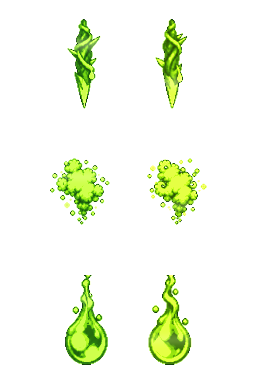
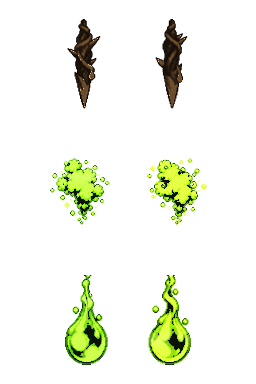
Verdant: brown root leaf shard and Bloom Queen shard, black-heart spore cloud and sap drop
Elite leaf shard (verdant_attack_shots cells 2,3) and the Bloom Queen's attack-1 shard
become dark brown bark with a near-black keyline; her spore cloud and sap drop stay
lime with a small near-black internal heart (two tone). Silhouettes, alpha and frames
unchanged; generated by Art/Attacks/Verdant~/black_shots.py from the master art.

diff --git a/Pause/Assets/Art/Attacks/Verdant~/black_shots.py b/Pause/Assets/Art/Attacks/Verdant~/black_shots.py
@@ -1,0 +1,52 @@
+"""Verdant hostile shots -> black (user, Oct 25): the leaf shard (verdant_attack_shots cells 2,3) and the Bloom Queen's three attack shots (Verdant_shots.png stays pale mint, user Oct 25) become dark brown root / bark / thorn art (near-black brown, tan bark ridges, a small ochre accent). Run on the ORIGINAL art (git history). Deterministic luminance-ramp remap, alpha and layout untouched.
+usage: blacken.py ROOT_ASSETS OUTDIR [variant]
+"""
+import sys, numpy as np
+from PIL import Image
+# brown root / bark ramp (t = luminance relative to the cell's 98th percentile): near-black brown -> bark -> tan -> a small dry-ochre accent
+STOPS=[(0.0,(12,8,5)),(.45,(28,19,11)),(.72,(52,36,21)),(.90,(84,59,34)),(1.0,(112,80,46))]
+KEY=(9,6,4)
+OCHRE=(222,182,116)   # a dry-ochre catch-light, only on the lit (upper-left) edge of the bright bark
+# (file, cell w, cell h, columns, cell indices to convert)
+JOBS=[('Art/Resources/Attacks/Verdant/verdant_attack_shots.png',128,128,8,[2,3]),   # the elites' leaf shard (both frames)
+      ('Art/Resources/Bosses/Verdant_attackshots.png',128,128,2,[0,1]),             # Bloom Queen attack 1 (lime shard): brown root
+      ('Art/Resources/Bosses/Verdant_attackshots.png',128,128,2,[2,3,4,5])]         # attack 2 (spore cloud), 3 (sap drop): stay green, get black internals (INNER)
+INNER=[('Art/Resources/Bosses/Verdant_attackshots.png',[2,3,4,5])]   # cells that keep their art and only gain a black heart
+INNER_SHARE=.18; INNER_KEY=(11,18,8)   # the darkest 18 % of the interior (eroded 2 px) becomes one near-black: two tone, the lime stays dominant
+def lum(rgb): return (.2126*rgb[...,0]+.7152*rgb[...,1]+.0722*rgb[...,2])/255
+def conv(cell, variant):
+    a=cell[...,3]; m=a>0
+    L=lum(cell[...,:3].astype(float)); ref=np.percentile(L[a>128],98) if (a>128).any() else 1
+    t=np.clip(L/max(ref,1e-3),0,1)
+    xs=[p for p,_ in STOPS]; cs=np.array([c for _,c in STOPS],float)
+    body=np.stack([np.interp(t,xs,cs[:,k]) for k in range(3)],-1)
+    # catch-light: bright bark pixels whose upper or left neighbour is empty or dark
+    Lp=np.pad(t,1); Ap=np.pad(a,1)
+    lit=(t>.9)&(a>128)&(((Ap[1:-1,:-2]<128)|(Lp[1:-1,:-2]<.45))|((Ap[:-2,1:-1]<128)|(Lp[:-2,1:-1]<.45)))
+    # a subtle near-black keyline: the shot's own outermost opaque pixels (alpha untouched), except where the catch-light sits
+    Ab=np.pad(a<128,1,constant_values=True)
+    edge=(a>=128)&(Ab[1:-1,:-2]|Ab[1:-1,2:]|Ab[:-2,1:-1]|Ab[2:,1:-1])
+    body[edge&~lit]=KEY
+    body[lit]=OCHRE
+    out=cell.copy(); out[...,:3]=np.where(m[...,None],body,np.array(STOPS[0][1],float)).round().astype('uint8'); return out
+def inner(cell):
+    a=cell[...,3]; m=a>=128
+    for _ in range(2):
+        p=np.pad(m,1); m=p[1:-1,1:-1]&p[:-2,1:-1]&p[2:,1:-1]&p[1:-1,:-2]&p[1:-1,2:]
+    out=cell.copy()
+    if m.sum()<20: return out
+    L=lum(cell[...,:3].astype(float)); th=np.sort(L[m])[int(m.sum()*INNER_SHARE)]
+    dark=m&(L<=th); out[dark,:3]=INNER_KEY; return out
+def run(root,outdir,variant="brown"):
+    import os
+    outs={}
+    for f,cw,ch,cols,idx in JOBS:
+        im=np.array(Image.open(root+f).convert('RGBA'))
+        out=outs.setdefault(f,im.copy())
+        for i in idx:
+            r,c=divmod(i,cols); sl=(slice(r*ch,(r+1)*ch),slice(c*cw,(c+1)*cw))
+            inn=any(f==jf and i in ids for jf,ids in INNER)
+            out[sl]=inner(im[sl]) if inn else conv(im[sl],variant)
+    for f,out in outs.items():
+        p=outdir+f; os.makedirs(os.path.dirname(p),exist_ok=True); Image.fromarray(out).save(p)
+if __name__=='__main__': run(sys.argv[1],sys.argv[2],sys.argv[3] if len(sys.argv)>3 else "brown")
